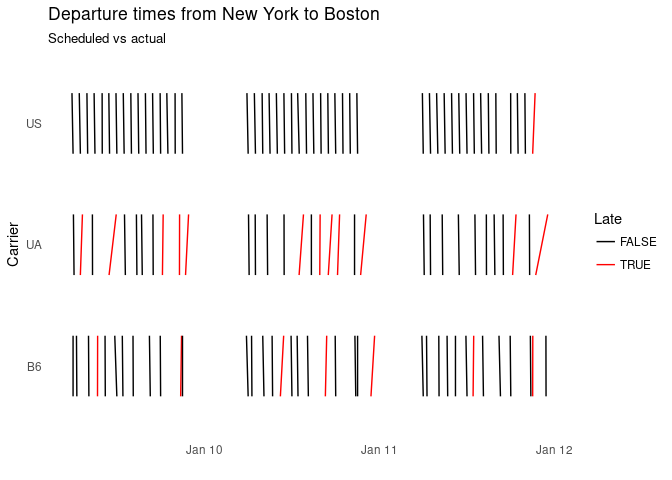
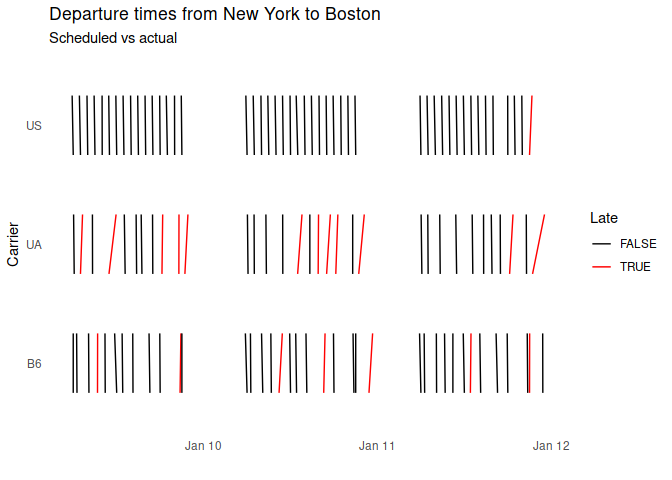
Add new dataset, refactor some things

diff --git a/README.md b/README.md
@@ -1,14 +1,14 @@
 
 <!-- README.md is generated from README.Rmd. Please edit that file -->
-ggstraw
-=======
+
+# ggstraw
 
 > One damned thing after another
 
-A geom for the 'ggplot2' package to visualize the difference between two events related to one object, e.g. scheduled and actual arrival.
+A geom for the ‘ggplot2’ package to visualize the difference between two
+events related to one object, e.g. scheduled and actual arrival.
 
-Installation
-------------
+## Installation
 
 You can install ggstraw from github with:
 
@@ -17,8 +17,7 @@ You can install ggstraw from github with:
 devtools::install_github("nacnudus/ggstraw")
 ```
 
-Example
--------
+## Example
 
 ``` r
 library(ggplot2)
@@ -28,8 +27,8 @@ example(geom_straw)
 #> gm_str> # Plot a subset of the nycflights13 data
 #> gm_str> library(ggplot2)
 #> 
-#> gm_str> ggplot(ggstraw::flights_example,
-#> gm_str+          aes(sched_dep_time, carrier, xend = dep_time, colour = late)) +
+#> gm_str> ggplot(ggstraw::flights,
+#> gm_str+        aes(sched_dep_time, carrier, xend = dep_time, colour = late)) +
 #> gm_str+   geom_straw() +
 #> gm_str+   scale_colour_manual("Late", values = c("black", "red")) +
 #> gm_str+   xlab("") +
@@ -39,4 +38,17 @@ example(geom_straw)
 #> gm_str+   theme(panel.grid = element_blank())
 ```
 
-![](README-example-1.png)
+![](README-example-1.png)<!-- -->
+
+    #> 
+    #> gm_str> # Plot a subset of the London Underground Metropolitan Line timetable
+    #> gm_str> ggplot(ggstraw::timetable, aes(x = departure, xend = arrival, y = day)) +
+    #> gm_str+   geom_straw() +
+    #> gm_str+   xlab("") +
+    #> gm_str+   ylab("") +
+    #> gm_str+   ggtitle("Metropolitan timetable from Harrow-on-the-Hill to Moor Park",
+    #> gm_str+   subtitle = "Scheduled departure time (bottom) and scheduled arrival time (top)") +
+    #> gm_str+   theme_minimal() +
+    #> gm_str+   theme(panel.grid = element_blank())
+
+![](README-example-2.png)<!-- -->
